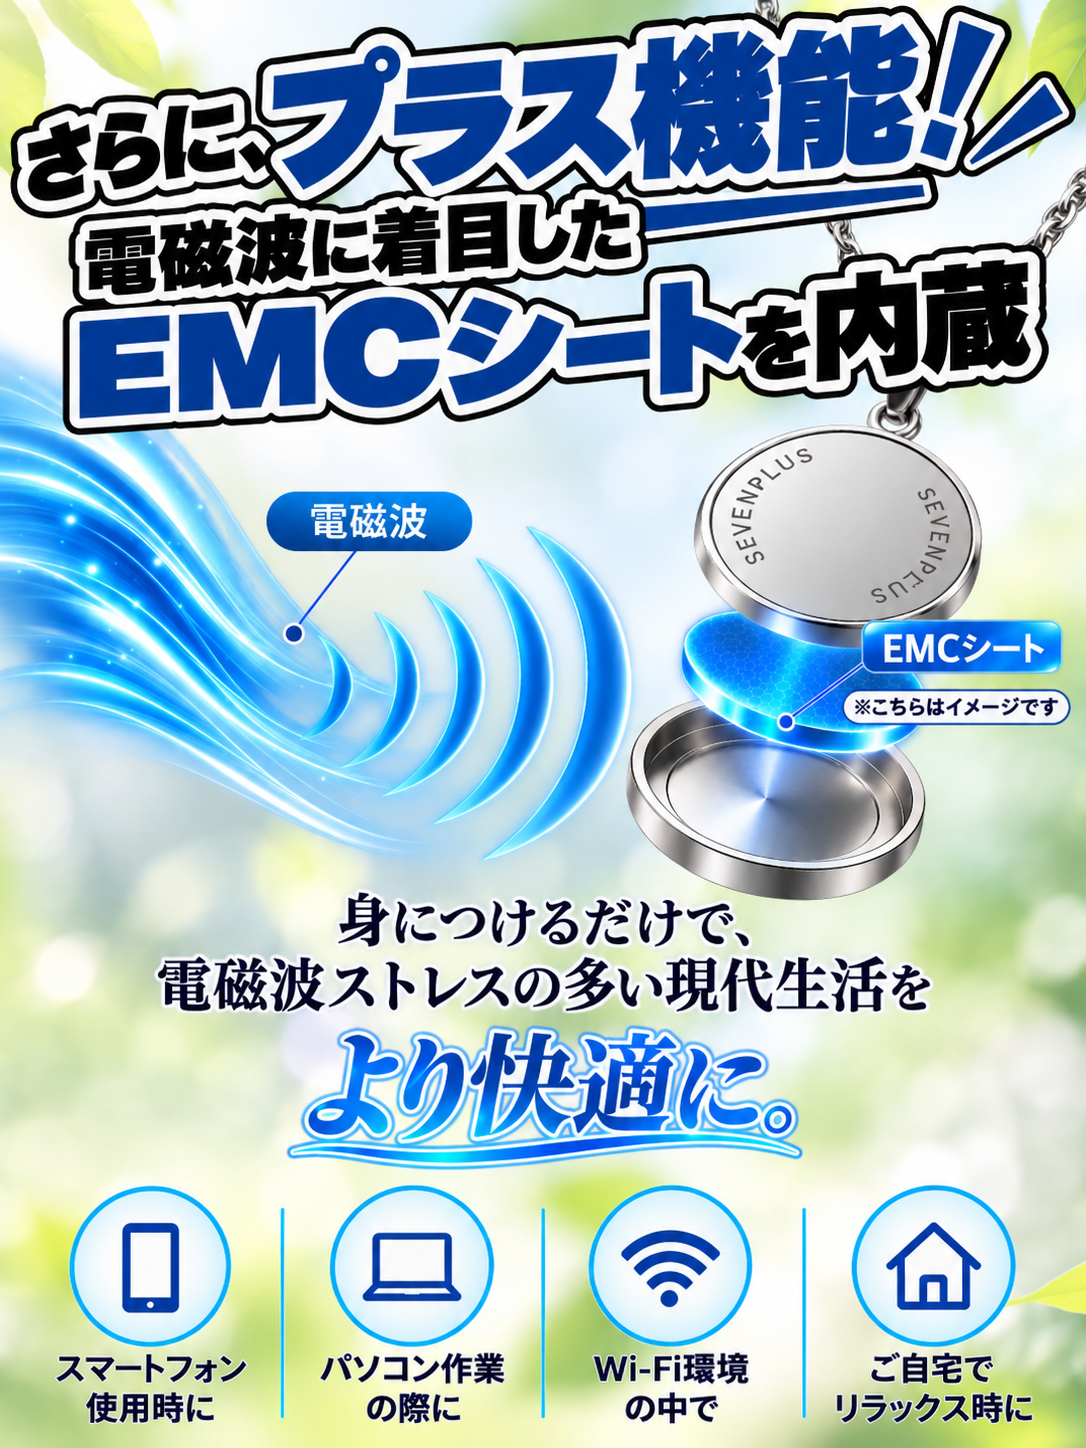
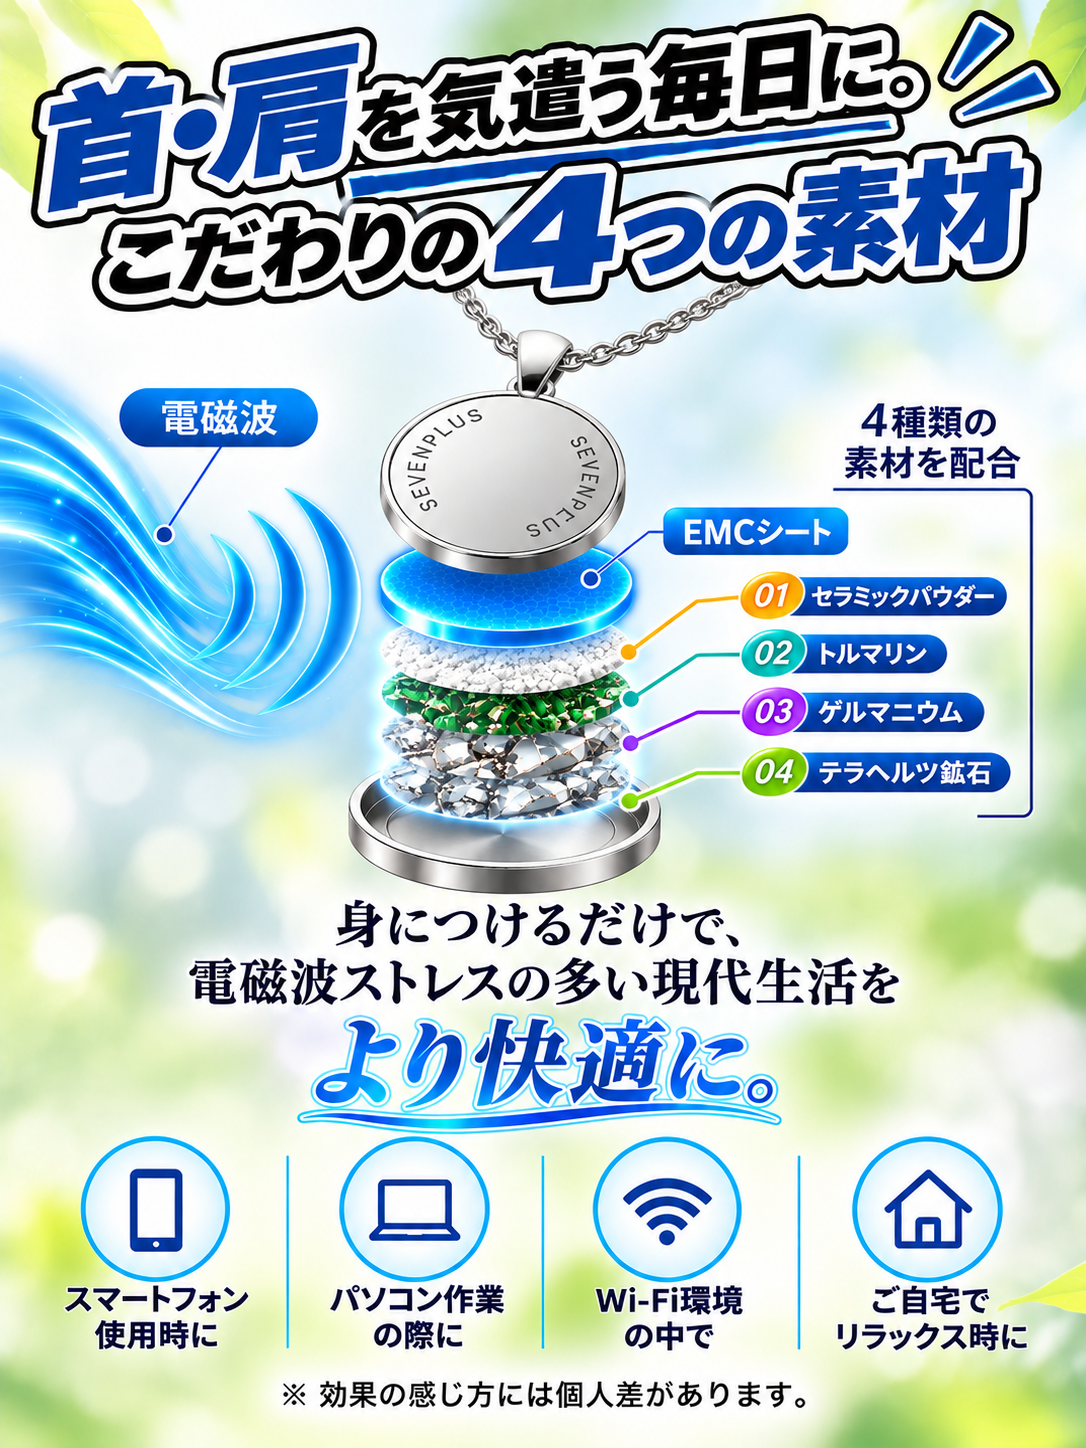
feat: update lp-07 (materials+EMC diagram) and lp-09 (4 pendant variants)
Replace lp-07 with the redesigned exploded-view diagram combining the
4 materials and EMC sheet under one header, and lp-09 with the new
closing section showing 4 pendant style variants (heart, dog tag,
silver round, gold round) instead of 2 necklaces. Update alt text in
index.html/shopify-snippet.html and README to match.

diff --git a/index.html b/index.html
@@ -21,11 +21,11 @@
   <img src="assets/lp-05b.png" alt="着用シーン いつでも、どこでも。毎日に寄り添うジュエリー。デスクワーク・おうち時間・お出かけ・家事の合間に" width="1086" height="1448" loading="lazy" style="display:block;width:100%;height:auto;margin:0;padding:0;border:0;">
   <a href="#buy" style="display:block;text-align:center;background:#fff;padding:10px 0;line-height:0;"><img src="assets/cta-button.png" alt="商品はこちら" width="660" height="285" loading="lazy" style="display:inline-block;width:64%;max-width:480px;height:auto;margin:0;border:0;"></a>
   <img src="assets/lp-06.png" alt="セブンプラス リカバリージュエリー その秘密は…？" width="1672" height="941" loading="lazy" style="display:block;width:100%;height:auto;margin:0;padding:0;border:0;">
-  <img src="assets/lp-07.png" alt="さらにプラス機能！電磁波に着目したEMCシートを内蔵" width="1086" height="1448" loading="lazy" style="display:block;width:100%;height:auto;margin:0;padding:0;border:0;">
+  <img src="assets/lp-07.png" alt="首・肩を気遣う毎日に。こだわりの4つの素材とEMCシートを内蔵。身につけるだけで電磁波ストレスの多い現代生活をより快適に" width="1086" height="1448" loading="lazy" style="display:block;width:100%;height:auto;margin:0;padding:0;border:0;">
   <a href="#buy" style="display:block;text-align:center;background:#fff;padding:10px 0;line-height:0;"><img src="assets/cta-button.png" alt="商品はこちら" width="660" height="285" loading="lazy" style="display:inline-block;width:64%;max-width:480px;height:auto;margin:0;border:0;"></a>
   <img src="assets/lp-08.png" alt="ご愛用者様の声 着用モニター満足度92.6パーセント" width="1087" height="1447" loading="lazy" style="display:block;width:100%;height:auto;margin:0;padding:0;border:0;">
   <a href="#buy" style="display:block;text-align:center;background:#fff;padding:10px 0;line-height:0;"><img src="assets/cta-button.png" alt="商品はこちら" width="660" height="285" loading="lazy" style="display:inline-block;width:64%;max-width:480px;height:auto;margin:0;border:0;"></a>
-  <img src="assets/lp-09.png" alt="身につけるだけで、心も身体も、心地よく。" width="1254" height="1254" loading="lazy" style="display:block;width:100%;height:auto;margin:0;padding:0;border:0;">
+  <img src="assets/lp-09.png" alt="身につけるだけで、心も身体も、心地よく。ハート・ドッグタグ・シルバー・ゴールドの4種のペンダントデザイン" width="1254" height="1254" loading="lazy" style="display:block;width:100%;height:auto;margin:0;padding:0;border:0;">
 </div>
 </body>
 </html>

diff --git a/shopify-snippet.html b/shopify-snippet.html
@@ -9,9 +9,9 @@
   <img src="lp-05b.png" alt="着用シーン いつでも、どこでも。毎日に寄り添うジュエリー。デスクワーク・おうち時間・お出かけ・家事の合間に" width="1086" height="1448" loading="lazy" style="display:block;width:100%;height:auto;margin:0;padding:0;border:0;">
   <a href="#buy" style="display:block;text-align:center;background:#fff;padding:10px 0;line-height:0;"><img src="cta-button.png" alt="商品はこちら" width="660" height="285" loading="lazy" style="display:inline-block;width:64%;max-width:480px;height:auto;margin:0;border:0;"></a>
   <img src="lp-06.png" alt="セブンプラス リカバリージュエリー その秘密は…？" width="1672" height="941" loading="lazy" style="display:block;width:100%;height:auto;margin:0;padding:0;border:0;">
-  <img src="lp-07.png" alt="さらにプラス機能！電磁波に着目したEMCシートを内蔵" width="1086" height="1448" loading="lazy" style="display:block;width:100%;height:auto;margin:0;padding:0;border:0;">
+  <img src="lp-07.png" alt="首・肩を気遣う毎日に。こだわりの4つの素材とEMCシートを内蔵。身につけるだけで電磁波ストレスの多い現代生活をより快適に" width="1086" height="1448" loading="lazy" style="display:block;width:100%;height:auto;margin:0;padding:0;border:0;">
   <a href="#buy" style="display:block;text-align:center;background:#fff;padding:10px 0;line-height:0;"><img src="cta-button.png" alt="商品はこちら" width="660" height="285" loading="lazy" style="display:inline-block;width:64%;max-width:480px;height:auto;margin:0;border:0;"></a>
   <img src="lp-08.png" alt="ご愛用者様の声 着用モニター満足度92.6パーセント" width="1087" height="1447" loading="lazy" style="display:block;width:100%;height:auto;margin:0;padding:0;border:0;">
   <a href="#buy" style="display:block;text-align:center;background:#fff;padding:10px 0;line-height:0;"><img src="cta-button.png" alt="商品はこちら" width="660" height="285" loading="lazy" style="display:inline-block;width:64%;max-width:480px;height:auto;margin:0;border:0;"></a>
-  <img src="lp-09.png" alt="身につけるだけで、心も身体も、心地よく。" width="1254" height="1254" loading="lazy" style="display:block;width:100%;height:auto;margin:0;padding:0;border:0;">
+  <img src="lp-09.png" alt="身につけるだけで、心も身体も、心地よく。ハート・ドッグタグ・シルバー・ゴールドの4種のペンダントデザイン" width="1254" height="1254" loading="lazy" style="display:block;width:100%;height:auto;margin:0;padding:0;border:0;">
 </div>

diff --git a/README.md b/README.md
@@ -15,9 +15,14 @@ product, built to paste directly into a Shopify product description / page edito
 - `assets/lp-05b.png` — "着用シーン" (wearing-scene) section inserted
   immediately after `lp-05.png` (materials), showing the necklace worn in
   4 everyday contexts (desk work / home / outing / housework).
+- `assets/lp-07.png` — "首・肩を気遣う毎日に。こだわりの4つの素材" section,
+  shown as an exploded-view diagram of the pendant (EMC sheet + the 4
+  materials stacked underneath) rather than the earlier 4-icon layout.
 - `assets/lp-09.png` — closing tagline section ("身につけるだけで、心も身体も、
-  心地よく。"), placed as the final content section before the last CTA.
-  Kept as PNG (alpha channel).
+  心地よく。"), now showing the 4 pendant style variants (rose-gold heart,
+  black dog tag, silver round, gold round) instead of 2 necklaces, placed
+  as the final content section before the last CTA. Kept as PNG (alpha
+  channel).
 - `assets/cta-button.png` — the repeated CTA button ("商品はこちら"), red
   rounded-pill style with play-arrow icon, cropped tight to its visible
   content and resized to 660px wide (285px tall), alpha preserved (kept as
